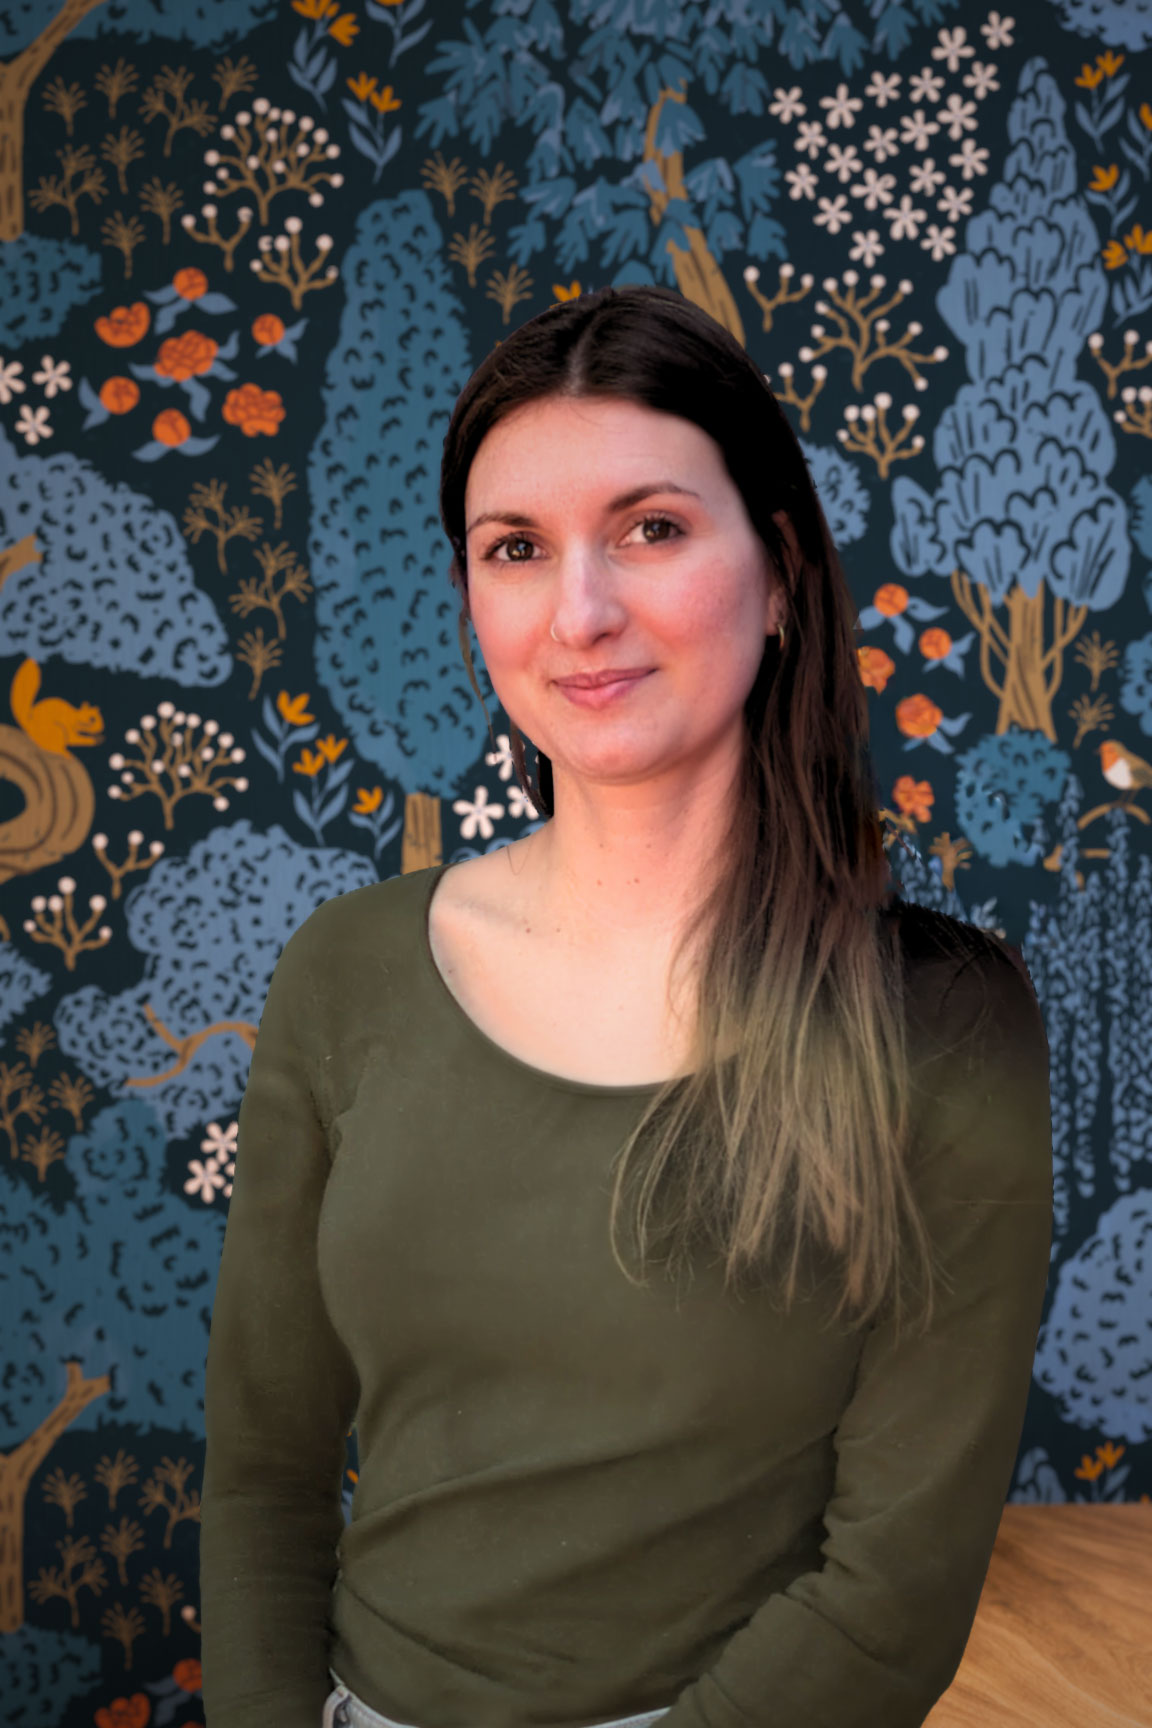
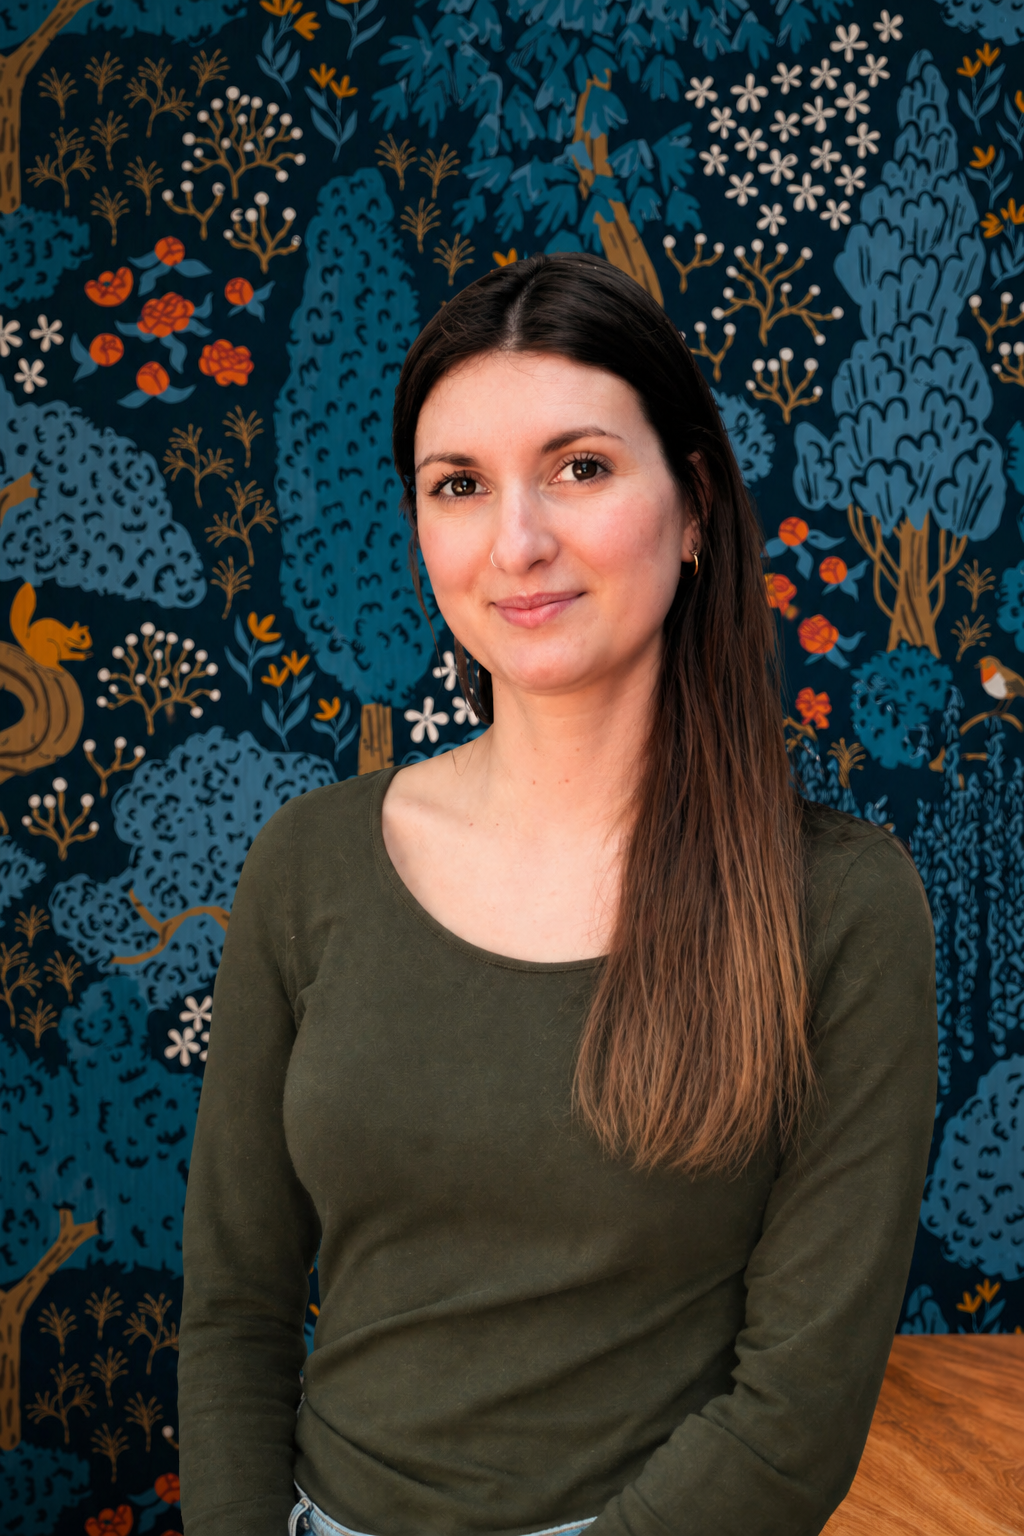
Wire up hero images for Secret Garden, Soft Tide, Playful Cats and Echoes of Siam pages

diff --git a/src/app/contact/page.tsx b/src/app/contact/page.tsx
@@ -1,11 +1,148 @@
-import { Mail } from 'lucide-react'
-import Link from 'next/link'
+"use client"
+import { useState } from 'react'
+
+const inputClass = "border border-zinc-200 px-3 py-2.5 text-sm font-extralight text-zinc-800 placeholder:text-zinc-400 focus:outline-none focus:border-zinc-400 bg-white transition-colors duration-200 w-full"
+const labelClass = "text-xs font-light text-zinc-500 tracking-wide uppercase"
 
 export default function Contact() {
+  const [submitted, setSubmitted] = useState(false)
+  const [form, setForm] = useState({
+    firstName: '', lastName: '', email: '',
+    businessName: '', website: '', social: '', additionalInfo: '',
+  })
+  const [designLinks, setDesignLinks] = useState([''])
+
+  function handleChange(e: React.ChangeEvent<HTMLInputElement | HTMLTextAreaElement>) {
+    setForm({ ...form, [e.target.name]: e.target.value })
+  }
+
+  function handleDesignLinkChange(index: number, value: string) {
+    const updated = [...designLinks]
+    updated[index] = value
+    setDesignLinks(updated)
+  }
+
+  function addDesignLink() {
+    setDesignLinks([...designLinks, ''])
+  }
+
+  function handleSubmit(e: React.FormEvent) {
+    e.preventDefault()
+    setSubmitted(true)
+  }
+
+  if (submitted) {
+    return (
+      <div className="animate-fade-up container flex flex-col items-center gap-4 py-52">
+        <h1 className="text-2xl font-light text-zinc-800">Thank you!</h1>
+        <p className="text-zinc-400 font-extralight text-sm">Your enquiry has been submitted. I'll be in touch soon.</p>
+      </div>
+    )
+  }
+
   return (
-    <div className="animate-fade-up container flex flex-col gap-6 md:gap-10 py-60">
-      <h2 className="text-center font-thin text-xl">let&apos;s work together!</h2>
-      <Link href="mailto: [email redacted]" className="text-center font-medium text-xl sm:text-3xl md:text-5xl">[email redacted]</Link>
+    <div className="animate-fade-up min-h-screen bg-stone-100">
+      <div className="max-w-2xl mx-auto px-8 py-16 md:py-24 flex flex-col gap-12">
+
+        <h1 className="text-3xl md:text-4xl font-light text-zinc-800 text-center">Enquiry Form</h1>
+
+        <form onSubmit={handleSubmit} className="flex flex-col gap-10">
+
+          {/* Name section */}
+          <div className="flex flex-col gap-6">
+            <span className="text-base font-light text-zinc-700">Name</span>
+
+            <div className="grid grid-cols-1 sm:grid-cols-2 gap-6">
+              <div className="flex flex-col gap-2">
+                <label className={labelClass}>First Name <span className="text-zinc-400 normal-case">*</span></label>
+                <input name="firstName" value={form.firstName} onChange={handleChange} required className={inputClass} />
+              </div>
+              <div className="flex flex-col gap-2">
+                <label className={labelClass}>Last Name <span className="text-zinc-400 normal-case">*</span></label>
+                <input name="lastName" value={form.lastName} onChange={handleChange} required className={inputClass} />
+              </div>
+            </div>
+
+            <div className="flex flex-col gap-2">
+              <label className={labelClass}>Email <span className="text-zinc-400 normal-case">*</span></label>
+              <input name="email" type="email" value={form.email} onChange={handleChange} required className={inputClass} />
+            </div>
+          </div>
+
+          {/* Business */}
+          <div className="flex flex-col gap-2">
+            <label className={labelClass}>Business Name <span className="text-zinc-400 normal-case">*</span></label>
+            <input name="businessName" value={form.businessName} onChange={handleChange} required className={inputClass} />
+          </div>
+
+          {/* Website */}
+          <div className="flex flex-col gap-2">
+            <label className={labelClass}>Link to your Website</label>
+            <input name="website" type="url" value={form.website} onChange={handleChange} placeholder="http://" className={inputClass} />
+          </div>
+
+          {/* Social */}
+          <div className="flex flex-col gap-2">
+            <label className={labelClass}>Link to one of your Social Media Channels</label>
+            <input name="social" type="url" value={form.social} onChange={handleChange} placeholder="http://" className={inputClass} />
+          </div>
+
+          {/* Design links */}
+          <div className="flex flex-col gap-4">
+            <div>
+              <label className={labelClass}>Design 1</label>
+              <p className="text-xs font-extralight text-zinc-400 mt-1">Link to one of my designs that you're interested in</p>
+            </div>
+
+            <div className="flex flex-col gap-3">
+              {designLinks.map((link, index) => (
+                <div key={index} className="flex flex-col gap-1">
+                  {index > 0 && (
+                    <span className="text-xs font-extralight text-zinc-400">Design {index + 1}</span>
+                  )}
+                  <input
+                    type="url"
+                    value={link}
+                    onChange={(e) => handleDesignLinkChange(index, e.target.value)}
+                    placeholder="http://"
+                    className={inputClass}
+                  />
+                </div>
+              ))}
+            </div>
+
+            <button
+              type="button"
+              onClick={addDesignLink}
+              className="flex items-center gap-2 self-start text-xs font-light text-zinc-400 hover:text-zinc-700 transition-colors duration-200 group"
+            >
+              <span className="w-5 h-5 rounded-full border border-zinc-300 group-hover:border-zinc-600 flex items-center justify-center transition-colors duration-200 text-base leading-none">+</span>
+              Add more links
+            </button>
+          </div>
+
+          {/* Additional info */}
+          <div className="flex flex-col gap-2">
+            <label className={labelClass}>Additional Information</label>
+            <textarea
+              name="additionalInfo"
+              value={form.additionalInfo}
+              onChange={handleChange}
+              placeholder="Please provide as much information as you can."
+              rows={5}
+              className={inputClass + " resize-none"}
+            />
+          </div>
+
+          <button
+            type="submit"
+            className="self-start px-10 py-3 bg-zinc-800 text-white text-sm font-light tracking-widest hover:bg-zinc-600 transition-colors duration-300"
+          >
+            Submit
+          </button>
+
+        </form>
+      </div>
     </div>
   )
 }

diff --git a/src/app/comperemedia-website/page.tsx b/src/app/comperemedia-website/page.tsx
@@ -17,7 +17,7 @@ export default function Collection2() {
       <ParallaxHero
         title="Secret Garden"
         description="A fabric collection of enchanted botanicals, cottagecore florals and romantic garden prints in rich jewel tones, deep greens and soft naturals."
-        image="/collection-hero-secret-garden.png"
+        image="/collection-hero-enchanted-woodland-2560x700.png"
         noSave
       >
         <Link href="https://www.spoonflower.com/collections/938595-secret-garden-by-julibel_studio" target="_blank" className="px-8 py-3 border border-white text-white text-sm font-extralight hover:bg-white hover:text-zinc-900 transition-colors duration-300">

diff --git a/src/app/illustrations/page.tsx b/src/app/illustrations/page.tsx
@@ -17,7 +17,7 @@ export default function Illustrations() {
       <ParallaxHero
         title="Playful Cats"
         description="A fabric collection of fun, whimsical cat-themed patterns and prints in cheerful pastels and playful colour palettes."
-        image="/collection-hero-playful-cats.png"
+        image="/collection-hero-playful-cats-2560x700.png"
         noSave
       >
         <Link href="https://www.spoonflower.com/collections/1357811-playful-cats-by-julibel" target="_blank" className="px-8 py-3 border border-white text-white text-sm font-extralight hover:bg-white hover:text-zinc-900 transition-colors duration-300">

diff --git a/src/app/laura-ashley-feature-page/page.tsx b/src/app/laura-ashley-feature-page/page.tsx
@@ -17,7 +17,7 @@ export default function Collection5() {
       <ParallaxHero
         title="Echoes of Siam"
         description="A fabric collection of tropical toiles, botanical prints and ornamental motifs inspired by the lush landscapes and rich visual culture of Southeast Asia."
-        image="/collection-hero-echoes-siam.png"
+        image="/collection-hero-echoes-siam-2560x700.png"
         noSave
       >
         <Link href="https://www.spoonflower.com/collections/1360307-echoes-siam-by-julibel" target="_blank" className="px-8 py-3 border border-white text-white text-sm font-extralight hover:bg-white hover:text-zinc-900 transition-colors duration-300">

diff --git a/src/app/mintel-digital-advertising/page.tsx b/src/app/mintel-digital-advertising/page.tsx
@@ -17,7 +17,7 @@ export default function Collection3() {
       <ParallaxHero
         title="Soft Tide"
         description="A calm coastal fabric collection featuring organic shapes, hand-drawn waves and shell motifs in muted blues, sandy neutrals and soft textures inspired by the sea."
-        image="/collection-hero-soft-tide.png"
+        image="/collection-hero-beachy-boho-2560x700.png"
         noSave
       >
         <Link href="https://www.spoonflower.com/collections/1483469-soft-tide-by-julibel_studio" target="_blank" className="px-8 py-3 border border-white text-white text-sm font-extralight hover:bg-white hover:text-zinc-900 transition-colors duration-300">